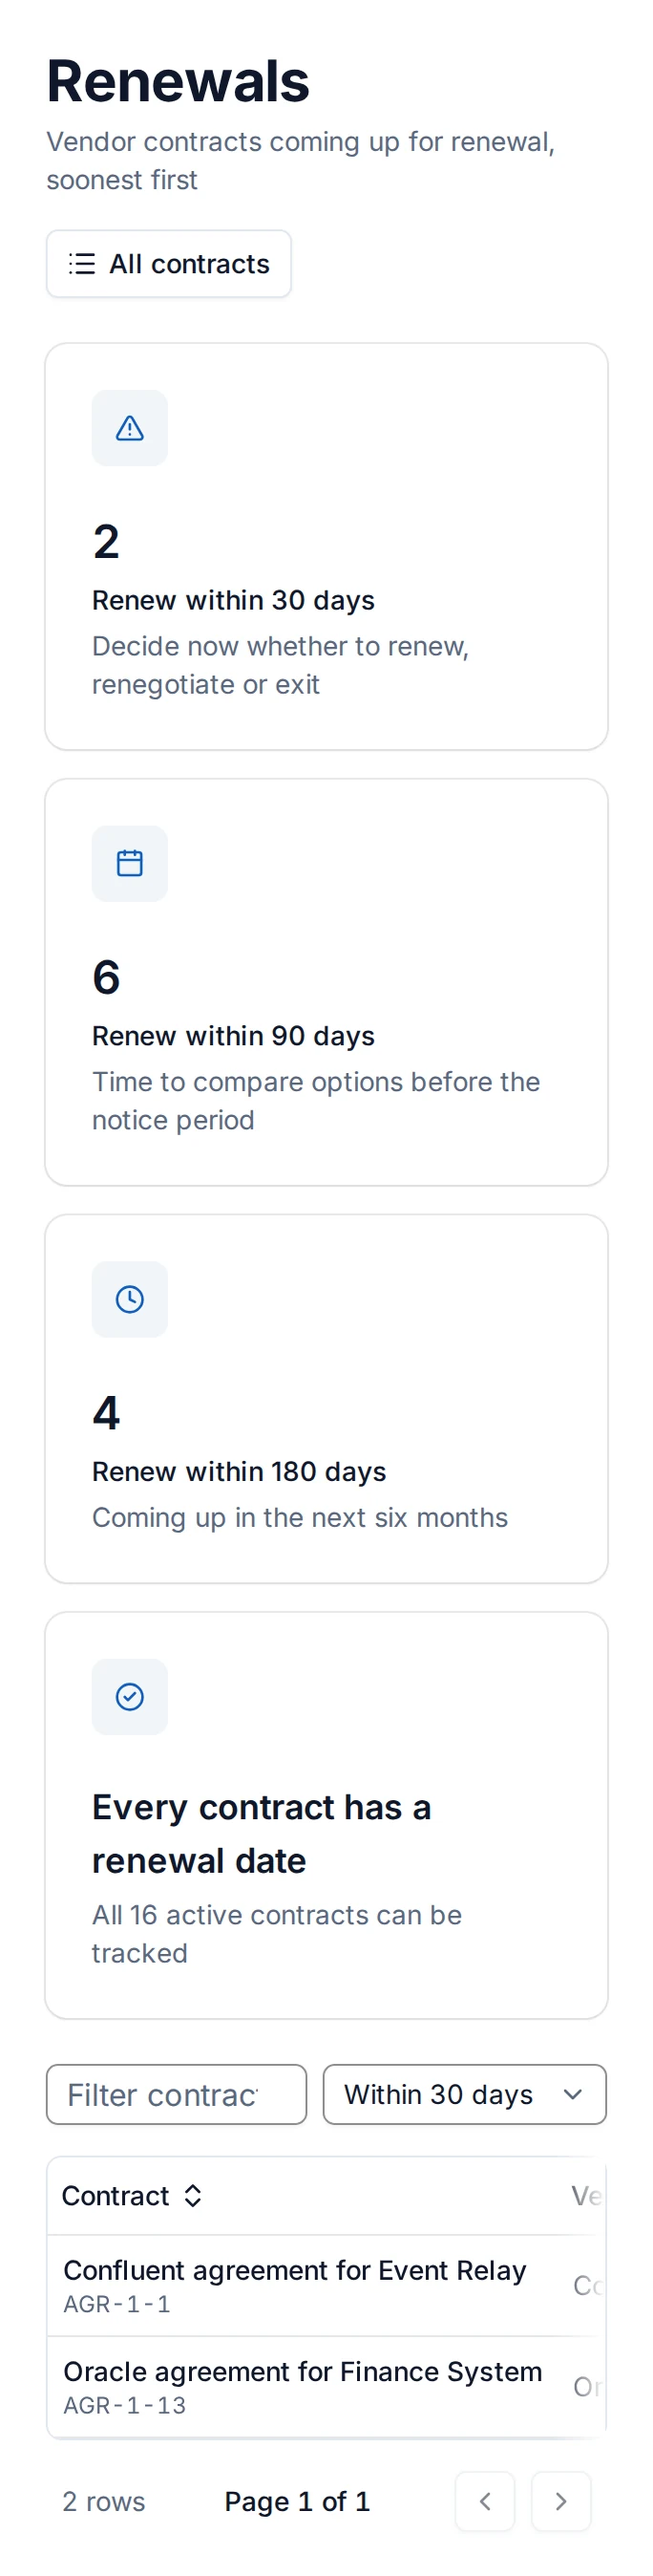
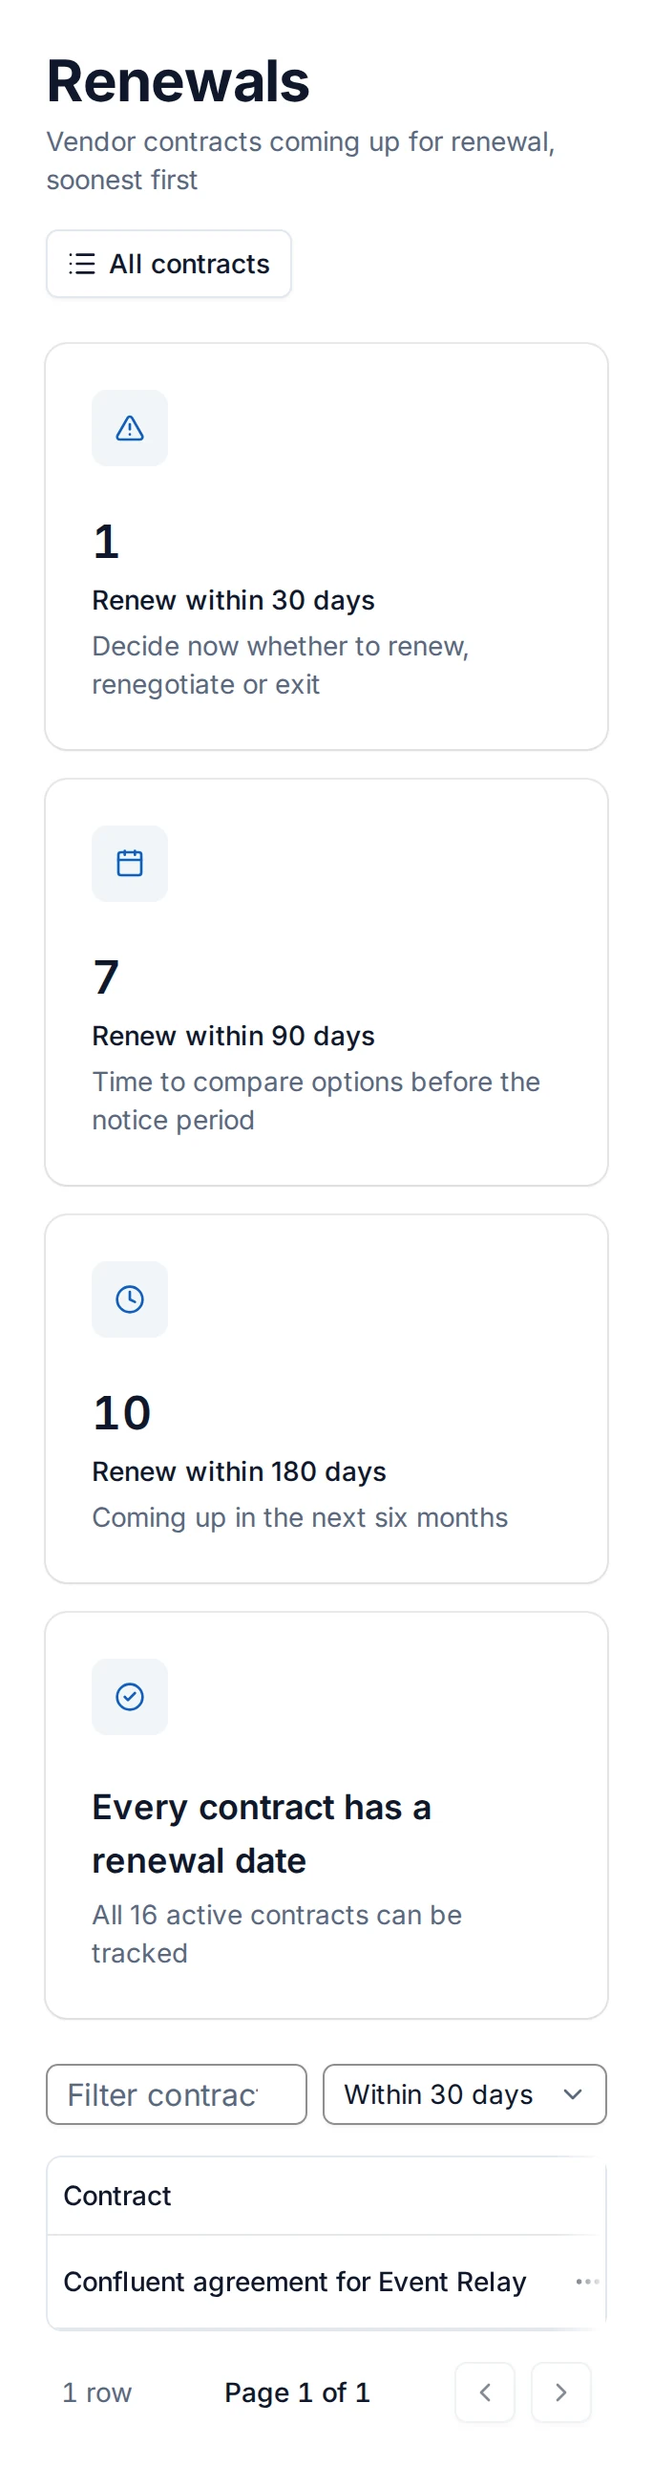
The ten module pictures and their phone versions are recaptured: no record ids, a title on the business case, ten vendors without a None, the board's pending line in frame
Evidence: python -m scripts.capture.module_images --base-url <server> -> written for all ten slugs, none REFUSED

diff --git a/scripts/capture/module_images.py b/scripts/capture/module_images.py
@@ -65,10 +65,11 @@ def _gather(page, *parts):
 
 
 def _only(page, *parts):
-    """Crop to the parts of a page that share a parent, hiding that parent's other children.
+    """Crop to the parts of a page, hiding everything else around them.
 
     Unlike ``_gather`` nothing is moved, so a page whose controls are bound to an enclosing component keeps its
-    values. Each part is a function returning a locator.
+    values. Each part is a function returning a locator; at each level between the parts' common parent and
+    the parts themselves, the other children are hidden.
     """
     for part in parts:
         part(page).evaluate("(el) => el.setAttribute('data-keep', '')")
@@ -76,9 +77,11 @@ def _only(page, *parts):
         const kept = Array.from(document.querySelectorAll('[data-keep]'));
         let host = kept[0].parentElement;
         while (!kept.every((el) => host.contains(el))) host = host.parentElement;
-        Array.from(host.children).forEach((child) => {
-            if (!kept.some((el) => child === el || child.contains(el))) child.style.display = 'none';
+        const prune = (node) => Array.from(node.children).forEach((child) => {
+            if (kept.includes(child)) return;
+            if (kept.some((el) => child.contains(el))) prune(child); else child.style.display = 'none';
         });
+        prune(host);
         host.setAttribute('data-capture', '');
     }""")
 
@@ -89,11 +92,11 @@ def _card_of(test_id):
 
 
 def _open_business_case(page, variant):
-    """Open the first business case, and show its options, recommendation and costs together."""
+    """Open the first business case, and show its title, options, recommendation and costs together."""
     page.locator("main a[href^='/business-case/']").filter(has_text="managed message broker").first.click()
     page.get_by_test_id("bc-input-capex").wait_for(state="visible")
-    _only(page, _card_of("bc-textarea-options_considered"), _card_of("bc-textarea-recommended_option"),
-          _card_of("bc-input-capex"))
+    _only(page, lambda p: p.locator("h1").locator("xpath=.."), _card_of("bc-textarea-options_considered"),
+          _card_of("bc-textarea-recommended_option"), _card_of("bc-input-capex"))
 
 
 TILES = "[data-testid=figure-cards]"
@@ -103,18 +106,22 @@ def _arb_queue(page, variant):
     """The board's figures and its queue of reviews awaiting a decision, without the date and person columns."""
     if variant == "phone":
         page.locator("ul[role=list].md\\:hidden").wait_for(state="visible")
-        _gather(page, TILES, "ul[role=list].md\\:hidden")
+        _gather(page, TILES, "[data-testid=arb-outside-queue]", "ul[role=list].md\\:hidden")
         page.locator("[data-capture] ul li").evaluate_all("""(cards) => cards.forEach((card) => {
+            Array.from(card.querySelectorAll('*')).filter((part) => /^REV-[0-9A-Z-]+$/.test(part.textContent.trim())
+                && !part.children.length).forEach((part) => part.remove());
             Array.from(card.children).filter((part) => /^Submitted/.test(part.textContent.trim()))
                 .forEach((part) => part.remove());
         })""")
         return
     page.locator("table").first.wait_for(state="visible")
-    _gather(page, TILES, "div.overflow-hidden:has(table)")
+    _gather(page, TILES, "[data-testid=arb-outside-queue]", "div.overflow-hidden:has(table)")
     page.locator("[data-capture] table").evaluate("""(table) => {
-        const col = Array.from(table.querySelectorAll('thead th')).findIndex((th) => /submitted/i.test(th.textContent));
-        if (col < 0) return;
-        table.querySelectorAll('tr').forEach((row) => { const cell = row.children[col]; if (cell) cell.remove(); });
+        ['submitted', 'review'].forEach((name) => {
+            const col = Array.from(table.querySelectorAll('thead th')).findIndex((th) => th.textContent.trim().toLowerCase() === name);
+            if (col < 0) return;
+            table.querySelectorAll('tr').forEach((row) => { const cell = row.children[col]; if (cell) cell.remove(); });
+        });
     }""")
 
 
@@ -122,10 +129,15 @@ def _renewals(page, variant):
     """The contracts coming up for renewal, soonest first: the dated column is left out, the status column says
     how many days ahead each one is."""
     page.locator("main table tbody tr").first.wait_for(state="visible")
-    page.locator("main table").first.evaluate("""(table) => {
-        const col = Array.from(table.querySelectorAll('thead th')).findIndex((th) => th.textContent.includes('Renews'));
-        if (col >= 0) table.querySelectorAll('tr').forEach((row) => { const cell = row.children[col]; if (cell) cell.remove(); });
-    }""")
+    page.locator("main table").first.evaluate("""(table, phone) => {
+        const names = phone ? ['Vendor', 'Annual cost', 'Status', 'Renews'] : ['Renews'];
+        names.forEach((name) => {
+            const col = Array.from(table.querySelectorAll('thead th')).findIndex((th) => th.textContent.trim().includes(name));
+            if (col >= 0) table.querySelectorAll('tr').forEach((row) => { const cell = row.children[col]; if (cell) cell.remove(); });
+        });
+    }""", variant == "phone")
+    # a contract's own number is a record id, not something the picture needs
+    page.locator("main table tbody tr td span.block.truncate").evaluate_all("(els) => els.forEach((el) => el.remove())")
     _wrap_page(page)
 
 
@@ -134,17 +146,22 @@ def _whole_page(page, variant):
 
 
 def _vendors(page, variant):
-    """The vendors with their contracts and systems: the evidence line under each row, the cost column (not
-    shown to this person's role) and the dated renewal column are left out."""
+    """The first ten vendors with their contracts and systems: the evidence line under each row, the cost column
+    (not shown to this person's role), the dated renewal column and the line promising cost and renewals are
+    left out, as is the paging that would count the rest."""
     page.locator("main table tbody tr:visible").first.wait_for(state="visible")
-    page.locator("main table").first.evaluate("""(table) => {
+    page.locator("main table").first.evaluate("""(table, phone) => {
         table.querySelectorAll('[data-testid=result-footer]').forEach((footer) => footer.remove());
-        ['Annual cost', 'Next renewal'].forEach((name) => {
+        (phone ? ['Annual cost', 'Next renewal', 'Active contracts'] : ['Annual cost', 'Next renewal']).forEach((name) => {
             const col = Array.from(table.querySelectorAll('thead th')).findIndex((th) => th.textContent.includes(name));
             if (col < 0) return;
             table.querySelectorAll('tr').forEach((row) => { const cell = row.children[col]; if (cell) cell.remove(); });
         });
-    }""")
+        table.querySelectorAll('tbody tr').forEach((row, index) => { if (index >= 10) row.remove(); });
+    }""", variant == "phone")
+    page.locator("main h1 + p").evaluate("(el) => el.remove()")
+    page.locator("main div").filter(has_text="Rows per page").last.evaluate("(el) => el.remove()")
+    page.locator("main div").filter(has_text="Page 1 of").filter(has_text="rows").last.evaluate("(el) => el.remove()")
     _wrap_page(page)
 
 
@@ -199,6 +216,7 @@ def _open_filled_canvas(page, variant):
     page.locator("[data-canvas=business-model-canvas] [data-entelim-form=C4]").wait_for(state="visible")
     if variant == "phone":
         _mark(page, "#box-value-propositions + *")
+        page.locator("[data-capture]").evaluate("(el) => { el.style.height = 'auto'; el.style.minHeight = '0'; }")
         page.locator("[data-capture]").evaluate(
             "(el) => { const r = el.closest('[role=region]'); r.scrollLeft = el.getBoundingClientRect().left"
             " - r.getBoundingClientRect().left + r.scrollLeft - 4; window.scrollTo(0, 0); }")
@@ -208,10 +226,10 @@ def _open_filled_canvas(page, variant):
 
 
 def _top_risks(page, variant):
-    """The ranked list shows its first six risks beside the matrix, which counts all of them."""
+    """The ranked list shows its first five risks beside the matrix, which counts all of them."""
     page.locator("#risk-matrix-card").wait_for(state="visible")
     page.locator("#ranked-risks li[data-risk-row]").evaluate_all(
-        "(rows) => rows.slice(6).forEach((row) => row.remove())")
+        "(rows) => rows.slice(5).forEach((row) => row.remove())")
 
 
 def _first_applications(page, variant):
@@ -220,8 +238,9 @@ def _first_applications(page, variant):
         page.locator("[data-testid=mobile-cards] [data-app-id]").first.wait_for(state="visible")
         page.locator("[data-testid=mobile-cards]").evaluate("""(list) => {
             list.querySelectorAll('[data-testid=result-footer]').forEach((footer) => footer.remove());
+            Array.from(list.querySelectorAll('[data-app-id]')).forEach((card, index) => { if (index >= 8) card.remove(); });
         }""")
-        _wrap_page(page)
+        _mark(page, "[data-testid=mobile-cards]")
         return
     page.locator("[data-testid=applications-table] tbody tr:visible").first.wait_for(state="visible")
     # The row of filter controls above the table is left out: it is white space to a picture of the list.
@@ -233,6 +252,7 @@ def _first_applications(page, variant):
     }""")
     page.locator("[data-testid=applications-table] tbody").evaluate("""(body) => {
         body.querySelectorAll('tr:has([data-testid=result-footer])').forEach((row) => row.remove());
+        Array.from(body.querySelectorAll('tr')).forEach((row, index) => { if (index >= 14) row.remove(); });
     }""")
     _wrap_page(page)
 
